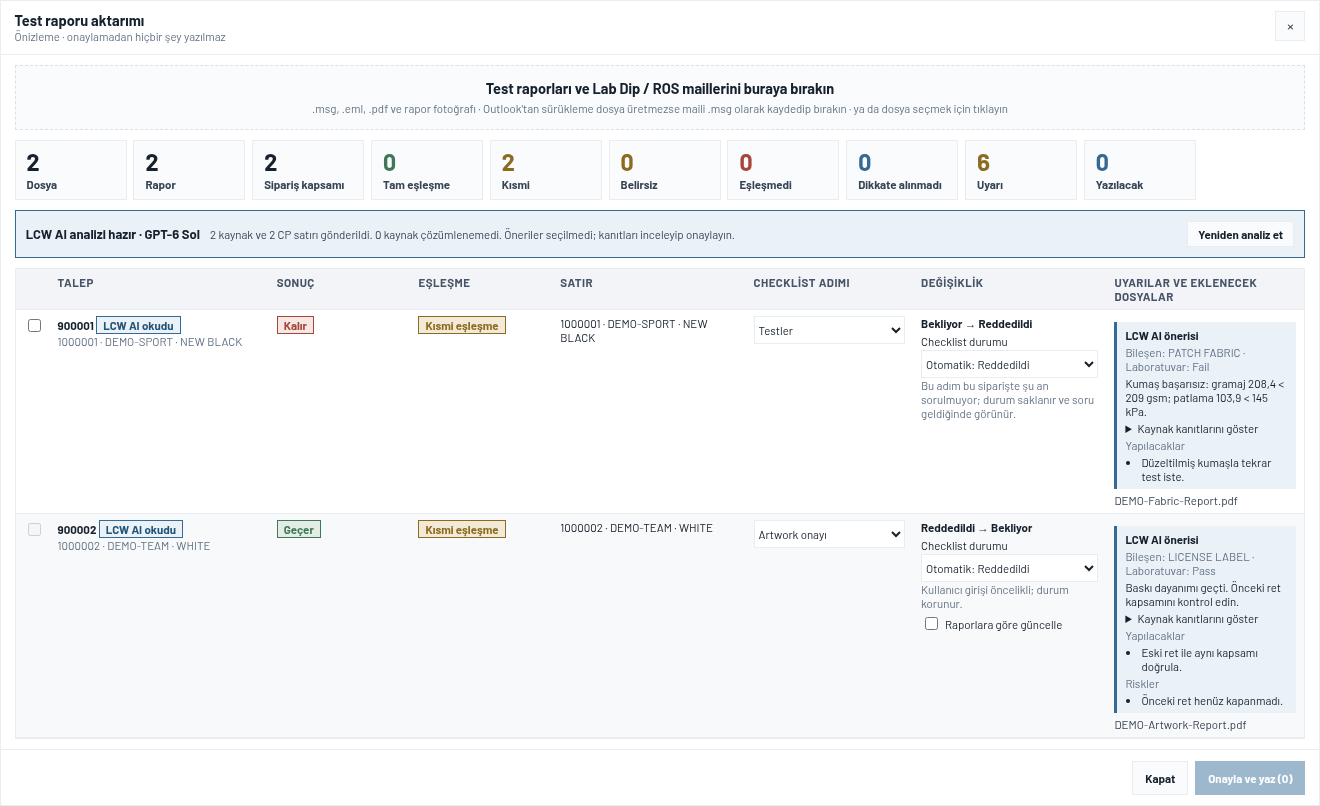
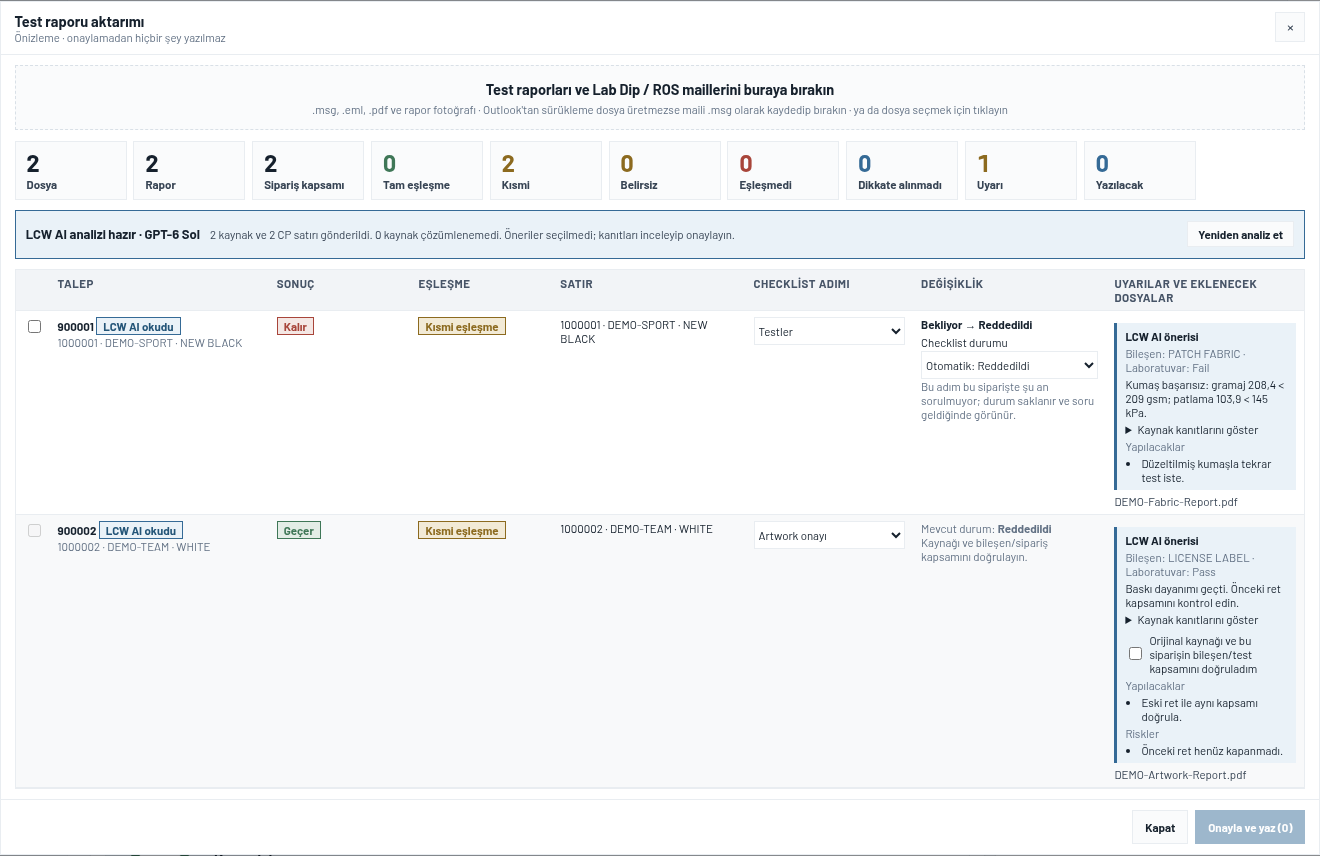
fix(test-reports): guard review races and retain scoped evidence

diff --git a/resources/app/public/test-report-import.js b/resources/app/public/test-report-import.js
@@ -190,6 +190,8 @@
   }
   function plan(entry) {
     const out = { ready: false, reason: '', current: 'open', next: '', suggested: null, manual: '', userOwned: false, notAsked: false, step: null, skippedDecisions: 0 };
+    const existing = assistantState() && assistantState().answers && assistantState().answers[answerKey(entry.chosen, entry.itemId)];
+    out.current = existing ? Checklist().normalizeStatus(existing.state) || 'open' : 'open';
     if (ui.ai.state !== 'done' || !ui.ai.packet) { out.reason = T('LCW AI incelemesi tamamlanmalı.', 'LCW AI review must complete.'); return out; }
     if (ui.ai.cpChanged) { out.reason = T('CP veya checklist değişti; yeniden analiz edin.', 'CP or checklist changed; analyse again.'); return out; }
     const review = reviewFor(entry);
@@ -313,7 +315,7 @@
       + '<option value="' + NEW_ITEM + '">' + html(T('+ Yeni checklist adımı oluştur…', '+ Create a new checklist step…')) + '</option>';
   }
   function changeCell(entry, p) {
-    if (!p.ready) return '<span class="trMuted">' + html(p.reason) + '</span>';
+    if (!p.ready) return (entry.itemId && entry.chosen ? '<small>' + html(T('Mevcut durum: ', 'Current status: ')) + statusHtml(p.current) + '</small>' : '') + '<span class="trMuted">' + html(p.reason) + '</span>';
     let out = statusHtml(p.current) + ' → ' + statusHtml(p.next);
     // Hedef durum dinamik: otomatik (analiz) ya da kullanıcı tanımlı durumlar dâhil elle seçim.
     const auto = p.userOwned && !entry.override ? p.current : (p.suggested && p.suggested.status || p.current);
@@ -408,8 +410,8 @@
   }
   function summaryHtml(plans) {
     const count = function (fn) { return ui.entries.filter(fn).length; };
-    const warnings = ui.entries.reduce(function (n, e) { return n + (e.report.uyarilar || []).length; }, 0)
-      + ui.files.reduce(function (n, f) { return n + (f.warnings || []).length; }, 0);
+    const warnings = ui.entries.reduce(function (n, e) { const review = reviewFor(e); return n + (review ? Math.max(review.risks.length, review.blocked ? 1 : 0) : 0) + (e.report.uyarilar || []).filter(function (w) { return !review || !['aiNote', 'aiExtracted'].includes(w.code); }).length; }, 0)
+      + ui.files.reduce(function (n, f) { return n + (ui.ai.read && ui.ai.read[f.name] && ui.ai.read[f.name].ok ? 0 : (f.warnings || []).length); }, 0);
     const chips = [
       [T('Dosya', 'Files'), ui.files.length, ''],
       [T('Rapor', 'Reports'), new Set(ui.entries.map(function (e) { return e.report.talepNo || e.id; })).size, ''],
@@ -663,7 +665,7 @@
       ui.entries = accepted.assessment.assessments.map(function (review) {
         const base = bases.find(function (entry) { return entry.report.talepNo === review.reportId && (entry.scope && entry.scope.orderCode || entry.report.siparisKodu) === review.orderCode; })
           || bases.find(function (entry) { return entry.report.talepNo === review.reportId; });
-        const entry = Object.assign({}, base, { id: 'r' + (ui.seq++), include: false, itemId: review.step || base.itemId });
+        const entry = Object.assign({}, base, { id: 'r' + (ui.seq++), chosen: review.orderKey || '', include: false, itemId: review.step || base.itemId });
         if (review.orderKey) {
           const row = cpRows().find(function (row) { const a = analysisFor(row); return a && a.orderKey === review.orderKey; });
           if (row) { entry.chosen = review.orderKey; entry.candidates = [{ key: review.orderKey, row: row }]; entry.ignored = false; entry.match = { level: 'partial', reason: 'ai', candidates: entry.candidates }; }
@@ -694,7 +696,6 @@
   function cancelAi() {
     ui.aiRun += 1;
     if (ui.ai.controller) ui.ai.controller.abort();
-    if (root.BuyerLogAI) root.BuyerLogAI.cancel();
     ui.ai.state = 'error';
     ui.ai.message = T('İnceleme durduruldu. Devam etmek için yeniden analiz edin.', 'Review stopped. Analyse again to continue.');
     render();

diff --git a/resources/app/server/lib/test-reports/service.js b/resources/app/server/lib/test-reports/service.js
@@ -63,7 +63,7 @@ function createService({authorizedOrders,audit=()=>{},sourceRevision=()=>null,re
         if(!proposal||proposal.blocked&&raw.confirmEvidence!==true)throw fail('TEST_REPORT_REVIEW_REQUIRED',409);
       }
       if(seen.has(key))throw fail('TEST_REPORT_DUPLICATE_TARGET',409);seen.add(key);
-      return {report,orderKey,itemId:text(raw.itemId,160),context:{...(raw.context&&typeof raw.context==='object'?raw.context:{}),...authoritative}};
+      return {report,orderKey,itemId:text(raw.itemId,160),review:session.assessment?{snapshotId:session.assessment.packet.snapshotId,scopeConfirmed:raw.confirmEvidence===true}:null,context:{...(raw.context&&typeof raw.context==='object'?raw.context:{}),...authoritative}};
     });
     const saved=store.read();
     if(items.some(item=>Engine.reportLinks(saved.links[item.report.talepNo]).some(link=>!allowed.has(link.orderKey))))throw fail('TEST_REPORT_SHARED_SCOPE_FORBIDDEN',403);
@@ -127,9 +127,10 @@ function createService({authorizedOrders,audit=()=>{},sourceRevision=()=>null,re
     staging.persistSession(session);return {ok:true,packet};
   }
   async function acceptAssessment(profile,body) {
+    const allowed=await authorizedOrders(profile,{write:false});
+    return staging.withSessionLease(body.sessionId,profile.id,()=>{
     const session=sessionFor(profile,body.sessionId),review=session.assessment;
     if(!review||review.packet.snapshotId!==body.snapshotId)throw fail('TEST_REPORT_REVIEW_STALE',409);
-    const allowed=await authorizedOrders(profile,{write:false});
     if(digest([...allowed])!==review.authorityHash)throw fail('TEST_REPORT_REVIEW_STALE',409);
     assertReviewCurrent(profile,review);
     const validated=Assessment.validate(body.data,review.packet);
@@ -146,13 +147,15 @@ function createService({authorizedOrders,audit=()=>{},sourceRevision=()=>null,re
       report.dosyalar=(session.sources||[]).filter(source=>ids.has(source.id)).map(source=>{
         const staged=session.files.get(source.fileId);return staged?{ad:source.name,tur:source.kind,boyut:staged.buffer.length,hash:source.hash,stagingId:source.fileId}:null;
       }).filter(Boolean);
-      report.aiAssessment={snapshotId:review.packet.snapshotId,orderKey:item.orderKey,step:item.step,status:item.status,scope:item.scope,evidence:item.evidence,component:item.component,labResult:item.labResult,commercialDecision:item.commercialDecision,summary:item.summary,risks:item.risks};
+      const evidence=item.evidence.map(ref=>{const source=review.packet.sources.find(source=>source.id===ref.sourceId);return {...ref,sourceName:source.name,sourceHash:source.hash};});
+      report.aiAssessment={snapshotId:review.packet.snapshotId,orderKey:item.orderKey,step:item.step,status:item.status,scope:item.scope,evidence,component:item.component,labResult:item.labResult,commercialDecision:item.commercialDecision,summary:item.summary,risks:item.risks};
       return report;
     });
     session.reports=Engine.groupReports(reports);
     review.validated=validated;staging.persistSession(session);
     audit(profile,'TEST_REPORT_AI_REVIEW',session.id,{snapshotId:review.packet.snapshotId,sources:review.packet.sources.length,orders:review.packet.cp.rows.length,proposals:validated.assessments.length,unresolved:validated.unresolvedSourceIds.length});
     return {ok:true,reports:session.reports,assessment:validated,snapshotId:review.packet.snapshotId};
+    });
   }
   async function extractAi(profile,sessionId,{engine,lang='tr',assertAuthority=()=>{}}) {
     const session=sessionFor(profile,sessionId),candidates=[...session.aiCandidates];

diff --git a/resources/app/tests/test-report-assessment-service.test.js b/resources/app/tests/test-report-assessment-service.test.js
@@ -54,6 +54,8 @@ test('real alphanumeric laboratory reference is preserved, only approval commits
   const committed=await service.commit(profile,{sessionId:parsed.sessionId,snapshotId:packet.snapshotId,items:[{talepNo:'SGS-2026-001',orderKey:'po7',itemId:'fabric'}]});
   assert.equal(committed.results.length,1);
   assert.equal(store.read().reports['SGS-2026-001'].aiAssessment.component,'PATCH FABRIC');
+  assert.equal(store.read().reports['SGS-2026-001'].aiAssessment.evidence[0].sourceName,'result.eml');
+  assert.equal(store.read().events[0].review.snapshotId,packet.snapshotId);
 });
 test('CP changes after the response invalidate approval; another order cannot take the proposal',async()=>{
   const {parsed,packet,data}=await prepare('366956');
@@ -61,4 +63,20 @@ test('CP changes after the response invalidate approval; another order cannot ta
   await assert.rejects(service.commit(profile,{sessionId:parsed.sessionId,snapshotId:packet.snapshotId,items:[{talepNo:'366956',orderKey:'po1',itemId:'fabric'}]}),{code:'TEST_REPORT_ORDER_MISMATCH'});
   revision='v2';
   await assert.rejects(service.commit(profile,{sessionId:parsed.sessionId,snapshotId:packet.snapshotId,items:[{talepNo:'366956',orderKey:'po7',itemId:'fabric'}]}),{code:'TEST_REPORT_REVIEW_STALE'});
+});
+test('a late old response cannot replace the reports of a newer validated review',async()=>{
+  const {parsed,packet,data}=await prepare('366957');
+  let resume,started;
+  const waiting=new Promise(resolve=>{started=resolve;});
+  const slow=createService({sourceRevision:()=>revision,authorizedOrders:async()=>{started();await new Promise(resolve=>{resume=resolve;});return orders;}});
+  const old=slow.acceptAssessment(profile,{sessionId:parsed.sessionId,snapshotId:packet.snapshotId,data});
+  await waiting;
+  const newer=await service.prepareAssessment(profile,{sessionId:parsed.sessionId,cp:{...cp,displayTable:{note:'new generation'}},checklistSteps:packet.checklistSteps,checklistStatuses:packet.checklistStatuses});
+  const latest={...data,snapshotId:newer.packet.snapshotId,assessments:data.assessments.map(item=>({...item,summary:'Newest reviewed source'}))};
+  await service.acceptAssessment(profile,{sessionId:parsed.sessionId,snapshotId:newer.packet.snapshotId,data:latest});
+  resume();
+  await assert.rejects(old,{code:'TEST_REPORT_REVIEW_STALE'});
+  const session=service.sessionFor(profile,parsed.sessionId);
+  assert.equal(session.reports[0].aiAssessment.snapshotId,newer.packet.snapshotId);
+  assert.equal(session.reports[0].aiAssessment.summary,'Newest reviewed source');
 });

diff --git a/resources/app/server/lib/test-reports/extract.js b/resources/app/server/lib/test-reports/extract.js
@@ -87,7 +87,8 @@ function readMsg(buffer) {
     to: (data.recipients || []).filter(r => r.recipType !== 2).map(r => r.smtpAddress || r.email || r.name || '').join('; '),
     cc: (data.recipients || []).filter(r => r.recipType === 2).map(r => r.smtpAddress || r.email || r.name || '').join('; '),
     date: data.messageDeliveryTime || data.clientSubmitTime || '',
-    body: data.body || '',
+    body: data.body || htmlToText(data.bodyHtml || ''),
+    alternativeBody: data.body && data.bodyHtml ? htmlToText(data.bodyHtml) : '',
     attachments,
     unreadAttachments,
   };
@@ -243,7 +244,7 @@ async function processFile(file, options) {
     if (kind === 'msg' || kind === 'eml') {
       const mail = kind === 'msg' ? readMsg(buffer) : readEml(buffer);
       const mailEntry = fileEntry(name, buffer, kind, opts.stage);
-      const mailSource = source(mailEntry, { pages: [{ page: 0, text: ['Subject: ' + mail.subject, 'From: ' + mail.from, 'To: ' + (mail.to || ''), 'Cc: ' + (mail.cc || ''), 'Date: ' + mail.date, 'Message-ID: ' + (mail.messageId || ''), '', mail.body, mail.alternativeBody ? '\n=== Alternative MIME body ===\n' + mail.alternativeBody : ''].join('\n') }], pageCount: 1, complete: Boolean(mail.body && mail.body.trim()) && !mail.incomplete,
+      const mailSource = source(mailEntry, { pages: [{ page: 0, text: ['Subject: ' + mail.subject, 'From: ' + mail.from, 'To: ' + (mail.to || ''), 'Cc: ' + (mail.cc || ''), 'Date: ' + mail.date, 'Message-ID: ' + (mail.messageId || ''), '', mail.body, mail.alternativeBody ? '\n=== Alternative MIME body ===\n' + mail.alternativeBody : ''].join('\n') }], pageCount: 1, complete: Boolean(mail.body && mail.body.trim()) && !mail.incomplete && !(mail.unreadAttachments || []).length,
         attachments: mail.attachments.map(attachment => ({ name: attachment.name, kind: detectKind(attachment.buffer, attachment.name), hash: sha256(attachment.buffer) })) });
       for (const missing of mail.unreadAttachments || []) {
         result.sources.push({ id: crypto.createHash('sha256').update(mailSource.id + missing).digest('hex').slice(0, 24), parentId: mailSource.id, name: missing, kind: 'unsupported', pages: [], pageCount: 0, complete: false });

diff --git a/resources/app/server/lib/test-reports/store.js b/resources/app/server/lib/test-reports/store.js
@@ -68,6 +68,8 @@ function publicPayload(allowedOrderKeys) {
   }));
   payload.reports = Object.fromEntries(Object.entries(payload.links).map(([id, link]) => [id, {
     ...store.reports[id],
+    ...(store.reports[id].aiAssessment ? {aiAssessment: allowedOrderKeys.has(store.reports[id].aiAssessment.orderKey) ? store.reports[id].aiAssessment : null} : {}),
+    ...(store.reports[id].aiAssessments ? {aiAssessments: store.reports[id].aiAssessments.filter(review=>allowedOrderKeys.has(review.orderKey))} : {}),
     dosyalar: [...new Map(Engine.reportLinks(link).flatMap(target => target.files || store.reports[id].dosyalar || []).map(file => [file.attachmentId || file.hash, file])).values()],
   }]));
   return payload;
@@ -153,6 +155,7 @@ function commit(items, typeMap, actor, attach, options = {}) {
         sourceFiles: (incoming.dosyalar || []).map(f => text(f.ad, 300)),
         sources: (incoming.kaynaklar || []).slice(0, 10),
         newDecisions, newAttachments: attachments.map(a => a.id),
+        ...(item.review ? {review: item.review} : {}),
       });
       results.push({ talepNo, orderKey, itemId, report: merged, attachments, newDecisions, decisionsSkipped: (incoming.kararlar || []).length - newDecisions });
     }

diff --git a/resources/app/server/lib/lcwai/lcwai-config.js b/resources/app/server/lib/lcwai/lcwai-config.js
@@ -43,6 +43,9 @@ const MODELS = Object.freeze([
 const DEFAULT_MODEL = MODELS[0].key;
 const REASONING_LEVELS = Object.freeze(['Low', 'Medium', 'High']);
 const DEFAULT_REASONING_LEVEL = 'Medium';
+const SOURCE_DEFAULTS = Object.freeze({
+  'test-report-assess': Object.freeze({ reasoningLevel: 'High' }),
+});
 
 const DEFAULTS = Object.freeze({
   modelKey: DEFAULT_MODEL,
@@ -116,7 +119,7 @@ function publicConfig() {
 
 module.exports = {
   WEB_ORIGIN, WEB_HOST, API_ORIGIN, API_HOST, API_BASE, ENDPOINTS, KEYCLOAK,
-  MODELS, DEFAULT_MODEL, REASONING_LEVELS, DEFAULT_REASONING_LEVEL, DEFAULTS,
+  MODELS, DEFAULT_MODEL, REASONING_LEVELS, DEFAULT_REASONING_LEVEL, SOURCE_DEFAULTS, DEFAULTS,
   LIMITS, ALLOWED_UPLOAD_TYPES, TIMEOUTS,
   modelInfo, resolveModelKey, resolveReasoningLevel, publicConfig,
 };

diff --git a/resources/app/tests/checklist-components.test.js b/resources/app/tests/checklist-components.test.js
@@ -181,6 +181,8 @@ test('test report preview requires an explicit valid set part before linking evi
   api._ui.store={links:{},reports:{}};
   const entry={report:{talepNo:'R-SET-1',kararlar:[]},candidates:[{key:analysis.orderKey,row}],chosen:analysis.orderKey,itemId:'tests',include:true};
   api._ui.entries=[entry];
+  const step=Components.itemId('tests','B');
+  api._ui.ai={state:'done',packet:{},reviews:{['R-SET-1::'+analysis.orderKey+'::'+step]:{reportId:'R-SET-1',orderKey:analysis.orderKey,step,status:'rejected',blocked:false}}};
   assert.equal(api._plan(entry).ready,false);
   entry.itemId=Components.itemId('tests','B');
   assert.equal(api._plan(entry).ready,true);

diff --git a/resources/app/tests/hologram-request-templates.test.js b/resources/app/tests/hologram-request-templates.test.js
@@ -62,6 +62,7 @@ test('saved hologram calculation is applied to exports, including legacy templat
   const entryKey='bl.excelTemplates.hologram.v1',captured=[],defaultConfig=H.template();
   const preference={version:1,name:'hologram.xlsx',config:{...defaultConfig,quantityRule:{multiplier:1.1,roundTo:25}},bytes:Buffer.from('template').toString('base64')};
   const root={
+    BLCanonicalFields:require('../public/canonical-fields'),
     BLHologramRequest:H,BLPerf:{ensureLibrary:async()=>{}},
     BLExcelTemplateEngine:{fill:async(_bytes,config,records)=>{captured.push({config,records});return 'output';}},
     BLExcelDates:{},JSZip:{}

diff --git a/resources/app/server/lib/lcwai/lcwai-engine.js b/resources/app/server/lib/lcwai/lcwai-engine.js
@@ -65,7 +65,7 @@ function createLcwAiEngine(options = {}) {
       content: built.prompt,
       attachments,
       modelKey: input.modelKey,
-      reasoningLevel: built.source === 'test-report-assess' ? 'High' : input.reasoningLevel,
+      reasoningLevel: config.SOURCE_DEFAULTS[built.source]?.reasoningLevel || input.reasoningLevel,
       signal,
       onDelta: delta => { chars += delta.length; emit(input.onProgress, { phase: 'streaming', requestId, delta, chars }); },
     });
